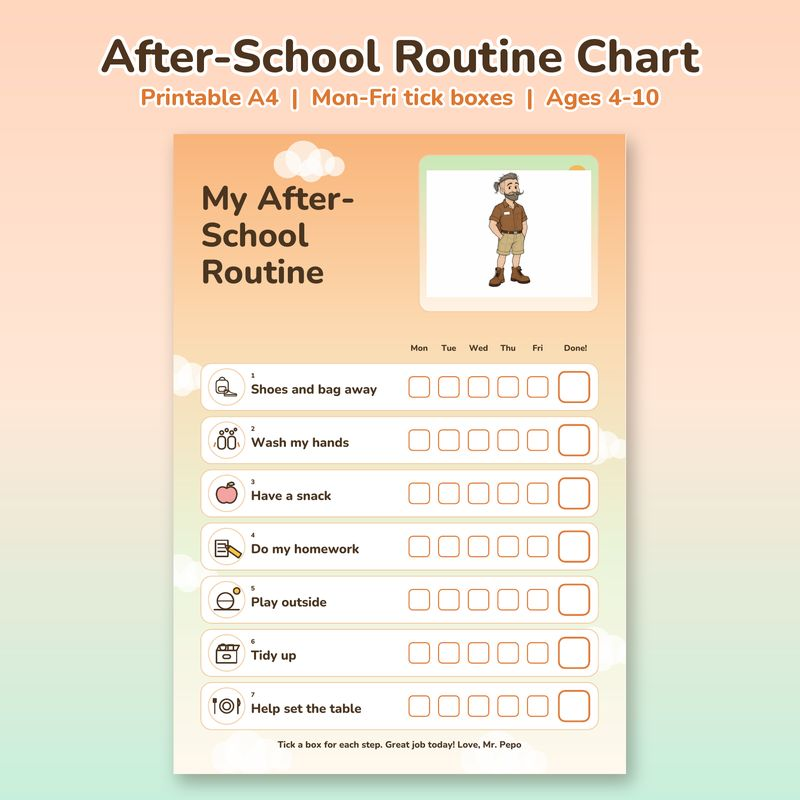
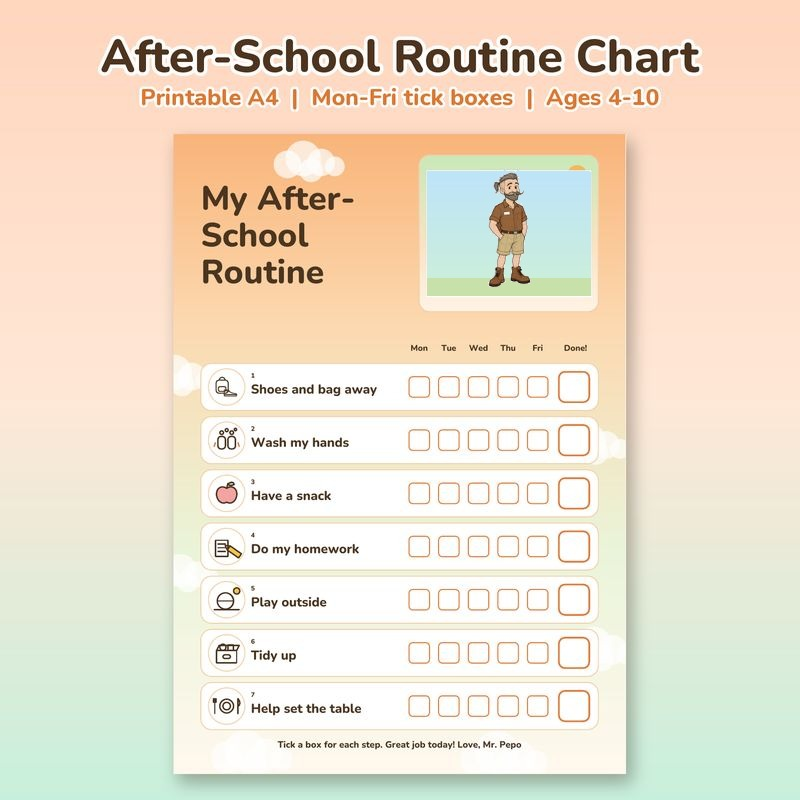
Refresh the after-school printable card image

Changed region(s): [[0.5312, 0.1875, 0.75, 0.375]]

diff --git a/index.html b/index.html
@@ -1872,7 +1872,7 @@
           </li>
           <li>
             <a class="pcard" href="https://payhip.com/PepoStudios" target="_blank" rel="noopener noreferrer">
-              <span class="pcard-pic"><img loading="lazy" decoding="async" src="images/cards/after-school.jpg" alt="After-School Routine Chart"></span>
+              <span class="pcard-pic"><img loading="lazy" decoding="async" src="images/cards/after-school.jpg?v=2" alt="After-School Routine Chart"></span>
               <span class="badge">FREE</span>
               <span class="pname">After-School Routine Chart</span>
             </a>
